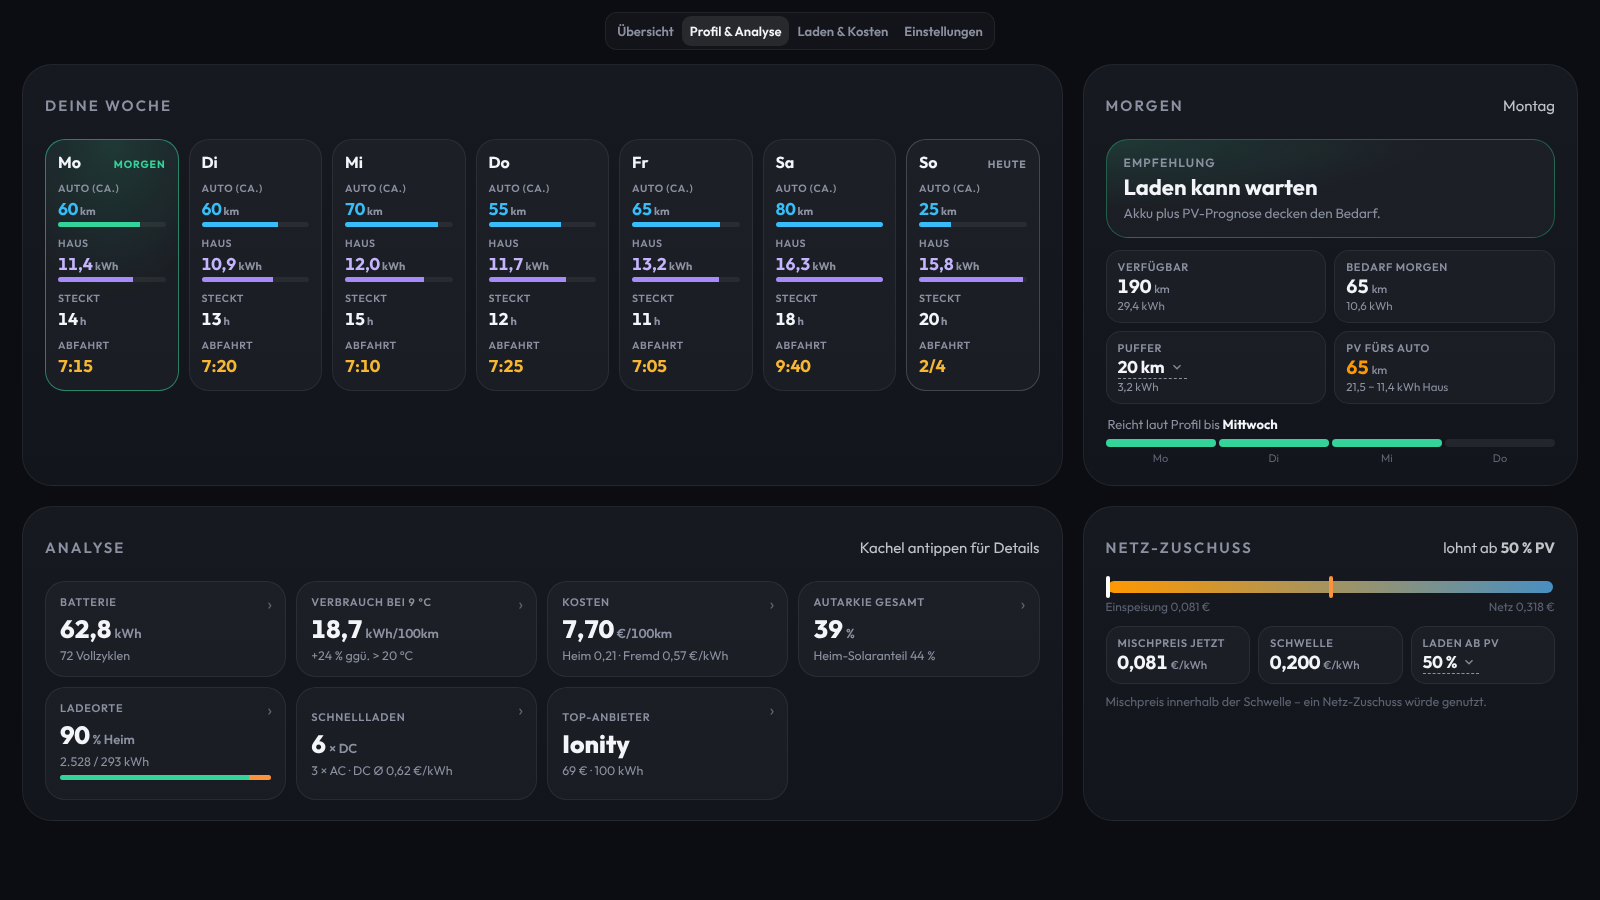
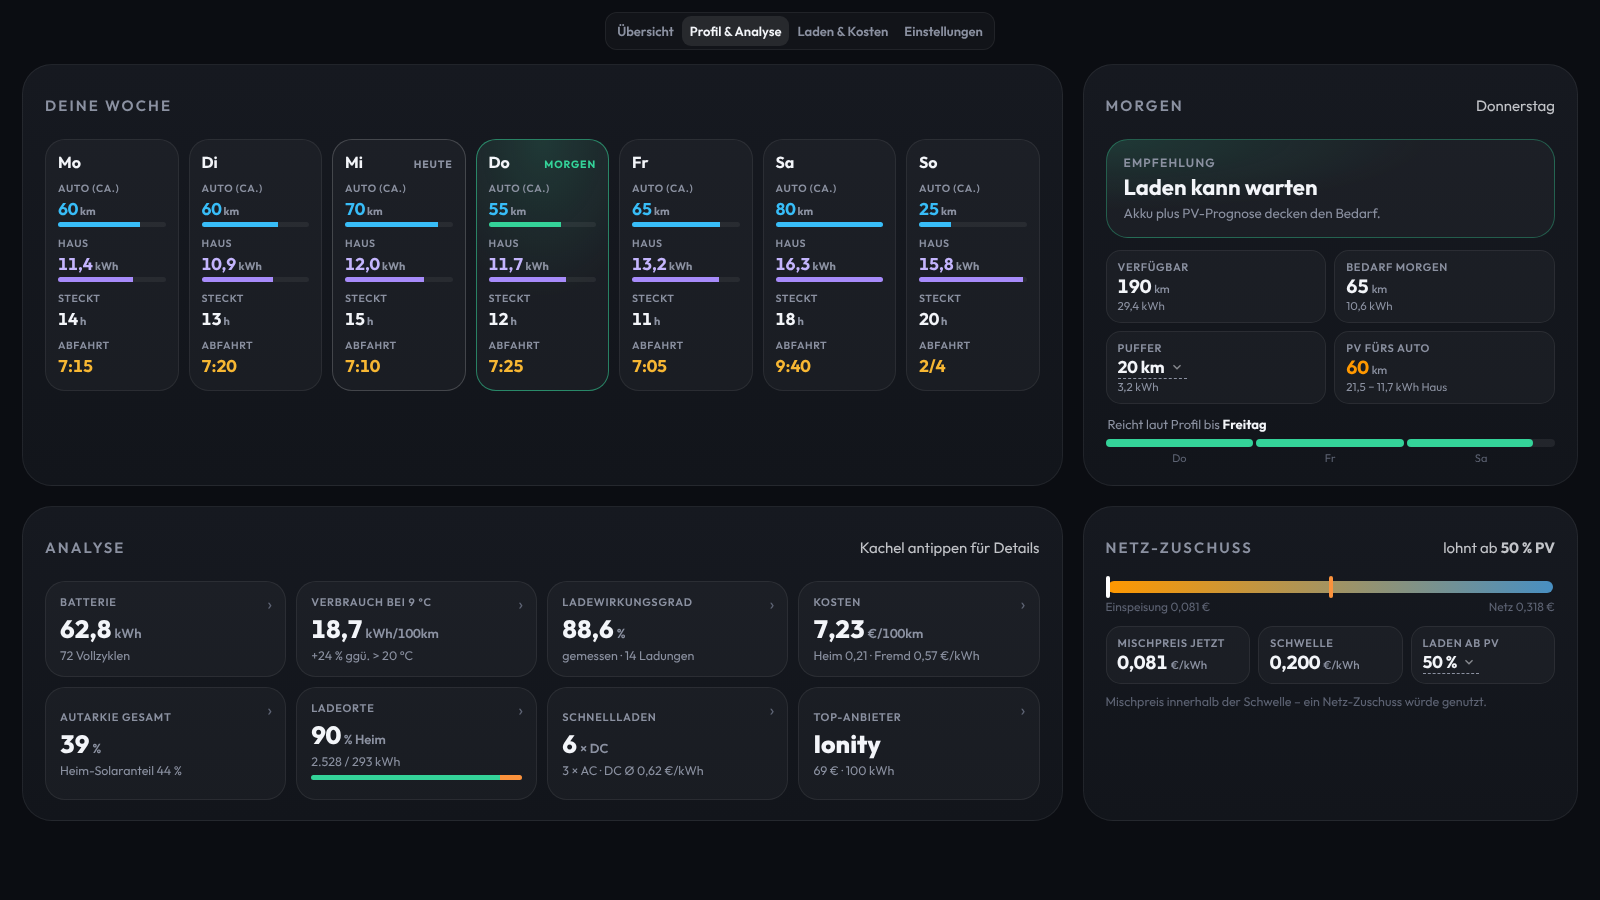
mg-car-dashboard 3.5.33: Ladewirkungsgrad in der Analyse
Neue Kachel „Ladewirkungsgrad“ auf „Profil & Analyse“ aus ev_assistants
Sensor „Ladewirkungsgrad (gemessen)“ (translation_key measured_efficiency,
automatisch gefunden). Zeigt den gemessenen Wert bzw. – solange noch nicht
genug Ladungen ausgewertet sind – den Startwert aus den Optionen mit dem
Fortschritt. Das Detailfenster zeigt Ladeverlust, Kalibrierung (gemessene
Ladungen, Startwert, was für Berechnungen gilt) und die Einzelwerte der
letzten Ladungen. Mit englischen Texten; Testkarte (beta3) und Screenshot
„Profil & Analyse“ aktualisiert.

Claude-Session: https://claude.ai/code/session_015SxMJ4LYCLxUxpLranQkSk

diff --git a/dist/mg-car-dashboard.js b/dist/mg-car-dashboard.js
@@ -1,12 +1,12 @@
 /*
  * mg-car-dashboard.js
  * Ablage:    /config/www/glow-dashboard/mg-car-dashboard.js
- * Ressource: /local/glow-dashboard/mg-car-dashboard.js?v=58  (Typ: JavaScript)
+ * Ressource: /local/glow-dashboard/mg-car-dashboard.js?v=59  (Typ: JavaScript)
  * YAML:      type: custom:mg-car-dashboard
  */
 
 window.customCards = window.customCards || [];
-const VERSION = "3.5.32";
+const VERSION = "3.5.33";
 // Version der Datenschnittstelle zu ev_assistant (Panel-Konfiguration, Websocket-Befehle, evcc_live),
 // die diese Karte erwartet. Meldet ev_assistant in der Panel-Konfiguration eine andere "api_version",
 // warnt die Karte (Konsole + Hinweis). Ohne "api_version" (ältere ev_assistant-Versionen) keine Warnung.
@@ -1787,6 +1787,21 @@ class MgCarDashboard extends HTMLElement {
     return { L, R, heim, fremd: loc(F), acdc: { ...(AC.n ? { ac: loc(AC) } : {}), ...(DC.n ? { dc: loc(DC) } : {}) },
       anb: Object.entries(anb).map(([k, o]) => [k, loc(o)]), src: "log", since: Math.min(...list.map((x) => x.ts)) };
   }
+  /* Ladewirkungsgrad (ev_assistant „Ladewirkungsgrad (gemessen)“): gemessen aus Heimladungen, bis genug Ladungen
+     ausgewertet sind gilt der Startwert aus den Optionen (Attribut manueller_wert_prozent) */
+  _effData() {
+    const s = this._ea("measured_efficiency"); if (!s) return null;
+    const a = s.attributes || {}, v = parseFloat(s.state), measured = !isNaN(v), man = Number(a.manueller_wert_prozent);
+    const val = measured ? v : man;
+    if (isNaN(val)) return null;
+    return { val, measured, man: isNaN(man) ? null : man, n: Number(a.anzahl_sessions) || 0, need: Number(a.benoetigte_sessions) || null,
+      list: (Array.isArray(a.einzelwerte_prozent) ? a.einzelwerte_prozent : []).filter((x) => typeof x === "number") };
+  }
+  _effTile(tile) {
+    const D = this._effData(); if (!D) return "";
+    return tile("eff", T("Ladewirkungsgrad"), de(D.val, 1), "%", D.measured ? T("gemessen · {n} Ladungen", { n: D.n })
+      : T("Startwert · {a} von {b} Ladungen gemessen", { a: D.n, b: D.need ?? "–" }));
+  }
   // Hinweis auf die Datengrundlage im Detailfenster
   _anaSrc(A) {
     return A.src === "log" ? T("Grundlage: evcc-Ladelogbuch und Fremdladungen aus ev_assistant seit {d} – wie „Laden & Kosten“ (Zeitraum Gesamt).", { d: new Date(A.since).toLocaleDateString(LOC) })
@@ -1804,6 +1819,7 @@ class MgCarDashboard extends HTMLElement {
       tile("bat", T("Batterie"), isNaN(cap) ? "–" : de(cap, 1), "kWh", isNaN(cyc) ? T("geschätzte Kapazität") : T("{n} Vollzyklen", { n: de(cyc, 0) })),
       tile("temp", typeof tNow === "number" ? T("Verbrauch bei {t} °C", { t: de(tNow, 0) }) : T("Verbrauch"), bv != null ? de(bv, 1) : "–", "kWh/100km",
         bv != null && typeof warm === "number" && band !== ">20°C" && warm > 0 ? T("{v} % ggü. > 20 °C", { v: `${bv >= warm ? "+" : ""}${Math.round((bv / warm - 1) * 100)}` }) : band ? `${T("Band")} ${esc(band)}` : T("noch keine Daten")),
+      this._effTile(tile),
       tile("cost", T("Kosten"), num(A.L.eur_je_100km, 2), "€/100km", `${T("Heim")} ${num(A.heim.preis_je_kwh, 2)} · ${T("Fremd")} ${num(A.fremd.preis_je_kwh, 2)} €/kWh`),
       tile("aut", T("Autarkie gesamt"), num(A.L.gesamt_autarkie_pct, 0), "%", `${T("Heim-Solaranteil")} ${num(A.heim.solar_pct, 0)} %`),
       tile("loc", T("Ladeorte"), num(A.heim.kwh_anteil_pct, 0), T("% Heim"), `${num(A.heim.kwh, 0)} / ${num(A.fremd.kwh, 0)} kWh`,
@@ -1853,6 +1869,17 @@ class MgCarDashboard extends HTMLElement {
       title = T("Batterie"); sub = T("Geschätzte Kapazität und Vollzyklen");
       body = `<div class="pcols">${col(T("Kapazität"), 0, [[T("geschätzt"), `${num(parseFloat(this._ea("battery_capacity")?.state), 1)} kWh`], [T("Vollzyklen"), num(parseFloat(this._ea("equivalent_full_cycles")?.state), 1)]])}</div>
         <div class="pnote">${T("Rollierender Schnitt aus Fremd- und Heimladungen mit großem SoC-Hub. Der Wert liegt meist über der echten Kapazität (Ladeverluste) – entscheidend ist der Trend über Monate. Vollzyklen aus Fahrtenbuch und Ladungen (0→100→0 = 1 Zyklus).")}</div>`;
+    } else if (k === "eff") {
+      title = T("Ladewirkungsgrad"); sub = T("Anteil der Energie aus der Wallbox, der im Akku ankommt");
+      const D = this._effData();
+      if (!D) body = `<div class="empty">${T("ev_assistant liefert keinen Ladewirkungsgrad.")}</div>`;
+      else {
+        const L = D.list.slice(-24), lo = L.length ? Math.max(0, Math.floor((Math.min(...L) - 8) / 5) * 5) : 0;
+        body = `<div class="pcols"><div class="pcol paut"><h4>${D.measured ? T("Gemessen") : T("Startwert")}</h4><b>${de(D.val, 1)}<small>%</small></b><p>${T("≈ {v} % Ladeverlust", { v: de(100 - D.val, 1) })}</p></div>
+          ${col(T("Kalibrierung"), 0, [[T("Gemessene Ladungen"), D.need ? T("{n} (mindestens {m})", { n: D.n, m: D.need }) : String(D.n)], D.man != null && [T("Startwert (Optionen)"), `${de(D.man, 1)} %`], [T("Für Berechnungen"), D.measured ? T("gemessener Wert") : T("Startwert")]])}</div>`;
+        if (L.length) body += `<h4 class="peffh">${T("Einzelwerte der letzten Ladungen")}</h4><div class="pbands peff" style="grid-template-columns:repeat(${L.length},minmax(0,52px))">${L.map((x, i) => `<div class="${i === L.length - 1 ? "cur" : ""}"><em>${de(x, 0)}</em><i style="height:${Math.max(4, ((x - lo) / Math.max(1, 100 - lo)) * 100)}%"></i><small>${i + 1}</small></div>`).join("")}</div>`;
+        body += `<div class="pnote">${T("Ermittelt aus Heimladungen: Energie laut Wallbox im Verhältnis zum Ladestand-Zuwachs mal Akkukapazität. Sobald genug Ladungen gemessen sind, ersetzt der gemessene Wert den Startwert in allen Berechnungen (z. B. Kosten und Verbrauch).")}</div>`;
+      }
     } else if (k === "aut") {
       // Autarkiegrad und Ersparnis der Heimladungen gegenüber reinem Netzstrom (Heim-kWh × Netzpreis aus evcc)
       title = T("Autarkie"); sub = T("Autarkiegrad und Ersparnis beim Heimladen");
@@ -3903,6 +3930,7 @@ input[type=date],input[type=datetime-local],input[type=month]{cursor:pointer;car
 .pdlg{max-width:720px}
 .pcols{display:grid;grid-template-columns:1fr 1fr;gap:10px}
 .pcol{padding:12px 14px;border-radius:16px;background:var(--tile);border:1px solid var(--tileb)}
+.pbands.peff{height:150px;gap:6px;margin-bottom:12px}.pbands.peff em{font-size:12px}.pbands.peff small{font-size:11px}.peffh{margin:14px 0 8px;font-size:12px;letter-spacing:.1em;text-transform:uppercase;color:var(--muted)}
 .paut b{font-size:30px;font-weight:700;font-variant-numeric:tabular-nums}.paut b small{font-size:15px;margin-left:2px;color:var(--muted)}.paut p{margin:4px 0 0;font-size:12.5px}
 .pcol h4{margin:0 0 6px;font-size:12px;letter-spacing:.1em;text-transform:uppercase;color:var(--muted)}
 .pcol p{margin:3px 0;display:flex;gap:10px;font-size:13.5px;color:var(--muted)}.pcol p b{margin-left:auto;color:var(--text);font-variant-numeric:tabular-nums;text-align:right}
@@ -4553,6 +4581,22 @@ const I18N = {
     "Bitte eine Zielzeit in der Zukunft wählen.": "Please choose a target time in the future.",
     "Keine Antwort von ev_assistant – Ladeplan vermutlich nicht gesetzt.": "No response from ev_assistant – charge plan probably not set.",
     "Ladeplan konnte nicht gesetzt werden:": "Charge plan could not be set:",
+    "Ladewirkungsgrad": "Charging efficiency",
+    "gemessen · {n} Ladungen": "measured · {n} charges",
+    "Startwert · {a} von {b} Ladungen gemessen": "start value · {a} of {b} charges measured",
+    "Anteil der Energie aus der Wallbox, der im Akku ankommt": "Share of the energy from the wallbox that reaches the battery",
+    "ev_assistant liefert keinen Ladewirkungsgrad.": "ev_assistant provides no charging efficiency.",
+    "Gemessen": "Measured",
+    "Startwert": "Start value",
+    "≈ {v} % Ladeverlust": "≈ {v} % charging loss",
+    "Kalibrierung": "Calibration",
+    "Gemessene Ladungen": "Measured charges",
+    "{n} (mindestens {m})": "{n} (at least {m})",
+    "Startwert (Optionen)": "Start value (options)",
+    "Für Berechnungen": "Used for calculations",
+    "gemessener Wert": "measured value",
+    "Einzelwerte der letzten Ladungen": "Individual values of recent charges",
+    "Ermittelt aus Heimladungen: Energie laut Wallbox im Verhältnis zum Ladestand-Zuwachs mal Akkukapazität. Sobald genug Ladungen gemessen sind, ersetzt der gemessene Wert den Startwert in allen Berechnungen (z. B. Kosten und Verbrauch).": "Determined from home charges: energy according to the wallbox compared with the state-of-charge gain times battery capacity. Once enough charges are measured, the measured value replaces the start value in all calculations (e.g. costs and consumption).",
     "Autarkiegrad und Ersparnis beim Heimladen": "Self-sufficiency and savings when charging at home",
     "Autarkiegrad gesamt": "Total self-sufficiency",
     "PV-Anteil an allen Ladungen (zuhause und unterwegs)": "PV share of all charges (at home and on the road)",

diff --git a/beta/mg-car-dashboard-beta.js b/beta/mg-car-dashboard-beta.js
@@ -3,12 +3,12 @@
  * als custom:mg-car-dashboard-beta, nur zum Ausprobieren. Wird nach dem Test in mg-car-dashboard.js übernommen.
  * Grundlage: mg-car-dashboard.js
  * Ablage:    /config/www/glow-dashboard/mg-car-dashboard-beta.js
- * Ressource: /local/glow-dashboard/mg-car-dashboard-beta.js?v=58  (Typ: JavaScript)
+ * Ressource: /local/glow-dashboard/mg-car-dashboard-beta.js?v=59  (Typ: JavaScript)
  * YAML:      type: custom:mg-car-dashboard-beta
  */
 
 window.customCards = window.customCards || [];
-const VERSION = "beta2-3.5.32";
+const VERSION = "beta3-3.5.33";
 // Version der Datenschnittstelle zu ev_assistant (Panel-Konfiguration, Websocket-Befehle, evcc_live),
 // die diese Karte erwartet. Meldet ev_assistant in der Panel-Konfiguration eine andere "api_version",
 // warnt die Karte (Konsole + Hinweis). Ohne "api_version" (ältere ev_assistant-Versionen) keine Warnung.
@@ -1797,6 +1797,21 @@ class MgCarDashboard extends HTMLElement {
     return { L, R, heim, fremd: loc(F), acdc: { ...(AC.n ? { ac: loc(AC) } : {}), ...(DC.n ? { dc: loc(DC) } : {}) },
       anb: Object.entries(anb).map(([k, o]) => [k, loc(o)]), src: "log", since: Math.min(...list.map((x) => x.ts)) };
   }
+  /* Ladewirkungsgrad (ev_assistant „Ladewirkungsgrad (gemessen)“): gemessen aus Heimladungen, bis genug Ladungen
+     ausgewertet sind gilt der Startwert aus den Optionen (Attribut manueller_wert_prozent) */
+  _effData() {
+    const s = this._ea("measured_efficiency"); if (!s) return null;
+    const a = s.attributes || {}, v = parseFloat(s.state), measured = !isNaN(v), man = Number(a.manueller_wert_prozent);
+    const val = measured ? v : man;
+    if (isNaN(val)) return null;
+    return { val, measured, man: isNaN(man) ? null : man, n: Number(a.anzahl_sessions) || 0, need: Number(a.benoetigte_sessions) || null,
+      list: (Array.isArray(a.einzelwerte_prozent) ? a.einzelwerte_prozent : []).filter((x) => typeof x === "number") };
+  }
+  _effTile(tile) {
+    const D = this._effData(); if (!D) return "";
+    return tile("eff", T("Ladewirkungsgrad"), de(D.val, 1), "%", D.measured ? T("gemessen · {n} Ladungen", { n: D.n })
+      : T("Startwert · {a} von {b} Ladungen gemessen", { a: D.n, b: D.need ?? "–" }));
+  }
   // Hinweis auf die Datengrundlage im Detailfenster
   _anaSrc(A) {
     return A.src === "log" ? T("Grundlage: evcc-Ladelogbuch und Fremdladungen aus ev_assistant seit {d} – wie „Laden & Kosten“ (Zeitraum Gesamt).", { d: new Date(A.since).toLocaleDateString(LOC) })
@@ -1814,6 +1829,7 @@ class MgCarDashboard extends HTMLElement {
       tile("bat", T("Batterie"), isNaN(cap) ? "–" : de(cap, 1), "kWh", isNaN(cyc) ? T("geschätzte Kapazität") : T("{n} Vollzyklen", { n: de(cyc, 0) })),
       tile("temp", typeof tNow === "number" ? T("Verbrauch bei {t} °C", { t: de(tNow, 0) }) : T("Verbrauch"), bv != null ? de(bv, 1) : "–", "kWh/100km",
         bv != null && typeof warm === "number" && band !== ">20°C" && warm > 0 ? T("{v} % ggü. > 20 °C", { v: `${bv >= warm ? "+" : ""}${Math.round((bv / warm - 1) * 100)}` }) : band ? `${T("Band")} ${esc(band)}` : T("noch keine Daten")),
+      this._effTile(tile),
       tile("cost", T("Kosten"), num(A.L.eur_je_100km, 2), "€/100km", `${T("Heim")} ${num(A.heim.preis_je_kwh, 2)} · ${T("Fremd")} ${num(A.fremd.preis_je_kwh, 2)} €/kWh`),
       tile("aut", T("Autarkie gesamt"), num(A.L.gesamt_autarkie_pct, 0), "%", `${T("Heim-Solaranteil")} ${num(A.heim.solar_pct, 0)} %`),
       tile("loc", T("Ladeorte"), num(A.heim.kwh_anteil_pct, 0), T("% Heim"), `${num(A.heim.kwh, 0)} / ${num(A.fremd.kwh, 0)} kWh`,
@@ -1863,6 +1879,17 @@ class MgCarDashboard extends HTMLElement {
       title = T("Batterie"); sub = T("Geschätzte Kapazität und Vollzyklen");
       body = `<div class="pcols">${col(T("Kapazität"), 0, [[T("geschätzt"), `${num(parseFloat(this._ea("battery_capacity")?.state), 1)} kWh`], [T("Vollzyklen"), num(parseFloat(this._ea("equivalent_full_cycles")?.state), 1)]])}</div>
         <div class="pnote">${T("Rollierender Schnitt aus Fremd- und Heimladungen mit großem SoC-Hub. Der Wert liegt meist über der echten Kapazität (Ladeverluste) – entscheidend ist der Trend über Monate. Vollzyklen aus Fahrtenbuch und Ladungen (0→100→0 = 1 Zyklus).")}</div>`;
+    } else if (k === "eff") {
+      title = T("Ladewirkungsgrad"); sub = T("Anteil der Energie aus der Wallbox, der im Akku ankommt");
+      const D = this._effData();
+      if (!D) body = `<div class="empty">${T("ev_assistant liefert keinen Ladewirkungsgrad.")}</div>`;
+      else {
+        const L = D.list.slice(-24), lo = L.length ? Math.max(0, Math.floor((Math.min(...L) - 8) / 5) * 5) : 0;
+        body = `<div class="pcols"><div class="pcol paut"><h4>${D.measured ? T("Gemessen") : T("Startwert")}</h4><b>${de(D.val, 1)}<small>%</small></b><p>${T("≈ {v} % Ladeverlust", { v: de(100 - D.val, 1) })}</p></div>
+          ${col(T("Kalibrierung"), 0, [[T("Gemessene Ladungen"), D.need ? T("{n} (mindestens {m})", { n: D.n, m: D.need }) : String(D.n)], D.man != null && [T("Startwert (Optionen)"), `${de(D.man, 1)} %`], [T("Für Berechnungen"), D.measured ? T("gemessener Wert") : T("Startwert")]])}</div>`;
+        if (L.length) body += `<h4 class="peffh">${T("Einzelwerte der letzten Ladungen")}</h4><div class="pbands peff" style="grid-template-columns:repeat(${L.length},minmax(0,52px))">${L.map((x, i) => `<div class="${i === L.length - 1 ? "cur" : ""}"><em>${de(x, 0)}</em><i style="height:${Math.max(4, ((x - lo) / Math.max(1, 100 - lo)) * 100)}%"></i><small>${i + 1}</small></div>`).join("")}</div>`;
+        body += `<div class="pnote">${T("Ermittelt aus Heimladungen: Energie laut Wallbox im Verhältnis zum Ladestand-Zuwachs mal Akkukapazität. Sobald genug Ladungen gemessen sind, ersetzt der gemessene Wert den Startwert in allen Berechnungen (z. B. Kosten und Verbrauch).")}</div>`;
+      }
     } else if (k === "aut") {
       // Autarkiegrad und Ersparnis der Heimladungen gegenüber reinem Netzstrom (Heim-kWh × Netzpreis aus evcc)
       title = T("Autarkie"); sub = T("Autarkiegrad und Ersparnis beim Heimladen");
@@ -4084,6 +4111,7 @@ input[type=date],input[type=datetime-local],input[type=month]{cursor:pointer;car
 .pdlg{max-width:720px}
 .pcols{display:grid;grid-template-columns:1fr 1fr;gap:10px}
 .pcol{padding:12px 14px;border-radius:16px;background:var(--tile);border:1px solid var(--tileb)}
+.pbands.peff{height:150px;gap:6px;margin-bottom:12px}.pbands.peff em{font-size:12px}.pbands.peff small{font-size:11px}.peffh{margin:14px 0 8px;font-size:12px;letter-spacing:.1em;text-transform:uppercase;color:var(--muted)}
 .paut b{font-size:30px;font-weight:700;font-variant-numeric:tabular-nums}.paut b small{font-size:15px;margin-left:2px;color:var(--muted)}.paut p{margin:4px 0 0;font-size:12.5px}
 .pcol h4{margin:0 0 6px;font-size:12px;letter-spacing:.1em;text-transform:uppercase;color:var(--muted)}
 .pcol p{margin:3px 0;display:flex;gap:10px;font-size:13.5px;color:var(--muted)}.pcol p b{margin-left:auto;color:var(--text);font-variant-numeric:tabular-nums;text-align:right}
@@ -4738,6 +4766,22 @@ const I18N = {
     "Kennzahlen": "Statistics",
     "Ladeplan setzen": "Set charge plan",
     "Ziel und Uhrzeit wählen": "choose target and time",
+    "Ladewirkungsgrad": "Charging efficiency",
+    "gemessen · {n} Ladungen": "measured · {n} charges",
+    "Startwert · {a} von {b} Ladungen gemessen": "start value · {a} of {b} charges measured",
+    "Anteil der Energie aus der Wallbox, der im Akku ankommt": "Share of the energy from the wallbox that reaches the battery",
+    "ev_assistant liefert keinen Ladewirkungsgrad.": "ev_assistant provides no charging efficiency.",
+    "Gemessen": "Measured",
+    "Startwert": "Start value",
+    "≈ {v} % Ladeverlust": "≈ {v} % charging loss",
+    "Kalibrierung": "Calibration",
+    "Gemessene Ladungen": "Measured charges",
+    "{n} (mindestens {m})": "{n} (at least {m})",
+    "Startwert (Optionen)": "Start value (options)",
+    "Für Berechnungen": "Used for calculations",
+    "gemessener Wert": "measured value",
+    "Einzelwerte der letzten Ladungen": "Individual values of recent charges",
+    "Ermittelt aus Heimladungen: Energie laut Wallbox im Verhältnis zum Ladestand-Zuwachs mal Akkukapazität. Sobald genug Ladungen gemessen sind, ersetzt der gemessene Wert den Startwert in allen Berechnungen (z. B. Kosten und Verbrauch).": "Determined from home charges: energy according to the wallbox compared with the state-of-charge gain times battery capacity. Once enough charges are measured, the measured value replaces the start value in all calculations (e.g. costs and consumption).",
     "Autarkiegrad und Ersparnis beim Heimladen": "Self-sufficiency and savings when charging at home",
     "Autarkiegrad gesamt": "Total self-sufficiency",
     "PV-Anteil an allen Ladungen (zuhause und unterwegs)": "PV share of all charges (at home and on the road)",

diff --git a/docs/screenshots/generator/shots.html b/docs/screenshots/generator/shots.html
@@ -79,7 +79,9 @@ add("morning_departure", "sensor.eva_dep", "7:15", { mindestanzahl: 4, je_wochen
 add("available_kwh", "sensor.eva_avail", 29.4);
 add("charge_before_pv_recommended", "binary_sensor.eva_rec", "off", { verfuegbare_km: 190, pv_prognose_morgen_kwh: 21.5, pv_prognose_morgen_km: 134 });
 add("evcc_mode_control", "sensor.eva_mode", "auto", { urlaub_aktiv: false, pv_ueberschuss_w: 4200, wallbox_min_power_w: 1400, pv_override_max_mischpreis_kwh: 0.2, pv_override_min_solar_share_pct: 50, aktiv: true, target_soc_max: 80, target_soc: 80, balancing_enabled: true, naechste_vollladung_faellig_ts: Math.round(at(-4, 12) / 1000) });
-add("battery_capacity", "sensor.eva_cap", 62.8); add("equivalent_full_cycles", "sensor.eva_cyc", 71.6);
+add("battery_capacity", "sensor.eva_cap", 62.8);
+const EFF = Q.get("eff") === "start" ? { st: "unknown", n: 3 } : { st: 88.6, n: 14 };
+add("measured_efficiency", "sensor.eva_eff", EFF.st, { unit_of_measurement: "%", anzahl_sessions: EFF.n, benoetigte_sessions: 5, einzelwerte_prozent: [87.9, 89.4, 88.1, 90.2, 86.8, 88.7, 89.1, 87.5, 88.9, 89.6, 88.2, 87.7, 89.0, 88.4].slice(0, EFF.n), wird_verwendet: EFF.st !== "unknown", manueller_wert_prozent: 90 }); add("equivalent_full_cycles", "sensor.eva_cyc", 71.6);
 add("charging_location_breakdown", "sensor.eva_loc", 1, { eur_je_100km: 3.42, bekannte_anbieter: ["EnBW", "Ionity", "Aldi Süd", "Tesla Supercharger", "Stadtwerke München"] });
 add("range_estimate", "sensor.eva_range", 248, { aussentemperatur: 9, temperaturband_aktuell: "0-10°C", verbrauch_nach_temperatur: { "<0°C": 21.9, "0-10°C": 18.7, "10-20°C": 16.2, ">20°C": 15.1 } });
 add("vehicle_avg_consumption", "sensor.eva_cons", 16.8, { unit_of_measurement: "kWh/100km" });

diff --git a/beta/build/mkbeta.py b/beta/build/mkbeta.py
@@ -22,7 +22,7 @@ s = s.replace(a, a + ''.join(f'    {json.dumps(k, ensure_ascii=False)}: {json.du
 if beta:
     for x, y in [('customElements.get("mg-car-dashboard")) customElements.define("mg-car-dashboard", MgCarDashboard);', 'customElements.get("mg-car-dashboard-beta")) customElements.define("mg-car-dashboard-beta", MgCarDashboard);'),
                  ('window.customCards.push({ type: "mg-car-dashboard", name: "Glow Auto",', 'window.customCards.push({ type: "mg-car-dashboard-beta", name: "Glow Auto (Beta: Handy-Cockpit)",'),
-                 ('const VERSION = "', 'const VERSION = "beta2-'),
+                 ('const VERSION = "', 'const VERSION = "beta3-'),
                  ('c.type === "mg-car-dashboard"))', 'c.type === "mg-car-dashboard-beta"))'),
                  (' * Ablage:    /config/www/glow-dashboard/mg-car-dashboard.js\n * Ressource: /local/glow-dashboard/mg-car-dashboard.js', ' * Ablage:    /config/www/glow-dashboard/mg-car-dashboard-beta.js\n * Ressource: /local/glow-dashboard/mg-car-dashboard-beta.js'),
                  (' * YAML:      type: custom:mg-car-dashboard\n', ' * YAML:      type: custom:mg-car-dashboard-beta\n'),

diff --git a/README.md b/README.md
@@ -18,7 +18,7 @@ Ladestand und Fahrzeug, laufende Ladung mit PV-Anteil, Lademanagement mit ev_ass
 <img src="https://raw.githubusercontent.com/deepblue120/glow-dashboard/main/docs/screenshots/uebersicht.png" alt="Übersicht">
 
 ### Profil & Analyse
-Nutzungsprofil der Woche, Empfehlung für morgen, Analyse (Batterie, Verbrauch nach Temperatur, Kosten, Autarkie, Ladeorte, Schnellladen, Anbieter) und Netz-Zuschuss.
+Nutzungsprofil der Woche, Empfehlung für morgen, Analyse (Batterie, Verbrauch nach Temperatur, Ladewirkungsgrad, Kosten, Autarkie, Ladeorte, Schnellladen, Anbieter) und Netz-Zuschuss.
 
 <img src="https://raw.githubusercontent.com/deepblue120/glow-dashboard/main/docs/screenshots/profil-analyse.png" alt="Profil & Analyse">
 
@@ -71,7 +71,7 @@ HACS legt die Datei unter `/config/www/community/glow-dashboard/` ab und trägt 
 
 1. `dist/mg-car-dashboard.js` nach `/config/www/glow-dashboard/` kopieren.
 2. **Einstellungen → Dashboards → ⋮ → Ressourcen** → Eintrag hinzufügen (Typ: **JavaScript-Modul**):
-   `/local/glow-dashboard/mg-car-dashboard.js?v=58`
+   `/local/glow-dashboard/mg-car-dashboard.js?v=59`
    (die Zahl hinter `?v=` nach jedem Update erhöhen, damit der Browser die neue Datei lädt)
 
 ## Datenquellen
@@ -128,7 +128,7 @@ Die Unterseite zeigt die Daten aus den ev_assistant-Reitern „Nutzungsprofil“
 |---|---|
 | Deine Woche | je Wochentag Ø Bedarf des Autos (ca. km, sonst kWh), Hausverbrauch, Steckdauer und typische Abfahrt; heute und morgen markiert |
 | Morgen | Ladeempfehlung, verfügbar / Bedarf / Puffer (per Auswahl 0–300 km einstellbar) / PV fürs Auto (Prognose minus Hausverbrauch laut Hausprofil; km, kWh daneben) und wie weit der Akku laut Profil reicht |
-| Analyse | Kacheln für Batterie, Verbrauch bei aktueller Temperatur, Kosten, Autarkie, Ladeorte, Schnellladen und Top-Anbieter – antippen öffnet die Details |
+| Analyse | Kacheln für Batterie, Verbrauch bei aktueller Temperatur, Ladewirkungsgrad, Kosten, Autarkie, Ladeorte, Schnellladen und Top-Anbieter – antippen öffnet die Details |
 | Netz-Zuschuss | Skala von Einspeisevergütung bis Netzpreis mit Schwelle und aktuellem Mischpreis (Tarife aus evcc) |
 
 Fehlende Werte blendet die Karte aus bzw. zeigt „–“ (z. B. ohne Hauszähler oder Außentemperatur in ev_assistant).
@@ -245,6 +245,7 @@ car:
 | 3.5.30 | Profil & Analyse: Fenster „Autarkie“ mit Autarkiegrad und Ersparnis beim Heimladen gegenüber reinem Netzstrom |
 | 3.5.31 | Analyse rechnet Autarkie, Ladeorte, Kosten, AC/DC und Anbieter aus allen Ladungen (evcc-Ladelogbuch + Fremdladungen) – dieselben Werte wie „Laden & Kosten“ |
 | 3.5.32 | Screenshots in der Beschreibung, englische Kachel „Mode“ statt „Charging mode“ |
+| 3.5.33 | Profil & Analyse: Kachel „Ladewirkungsgrad“ (gemessen bzw. Startwert, Einzelwerte der letzten Ladungen) |
 | 3.5.27 | Lademanagement: PV-Anteil wieder orange, Puffer grün |
 | 3.5.26 | Übersicht ohne Scrollbalken rechts, PV-Anteil/Puffer mit Auswahl wie Ladeziel, Laden & Kosten bündig |
 | 3.5.25 | Lademanagement: Automatik · Manuell · Vollladung / Ladeziel · PV-Anteil · Puffer, „Plan setzen“ mittig |
